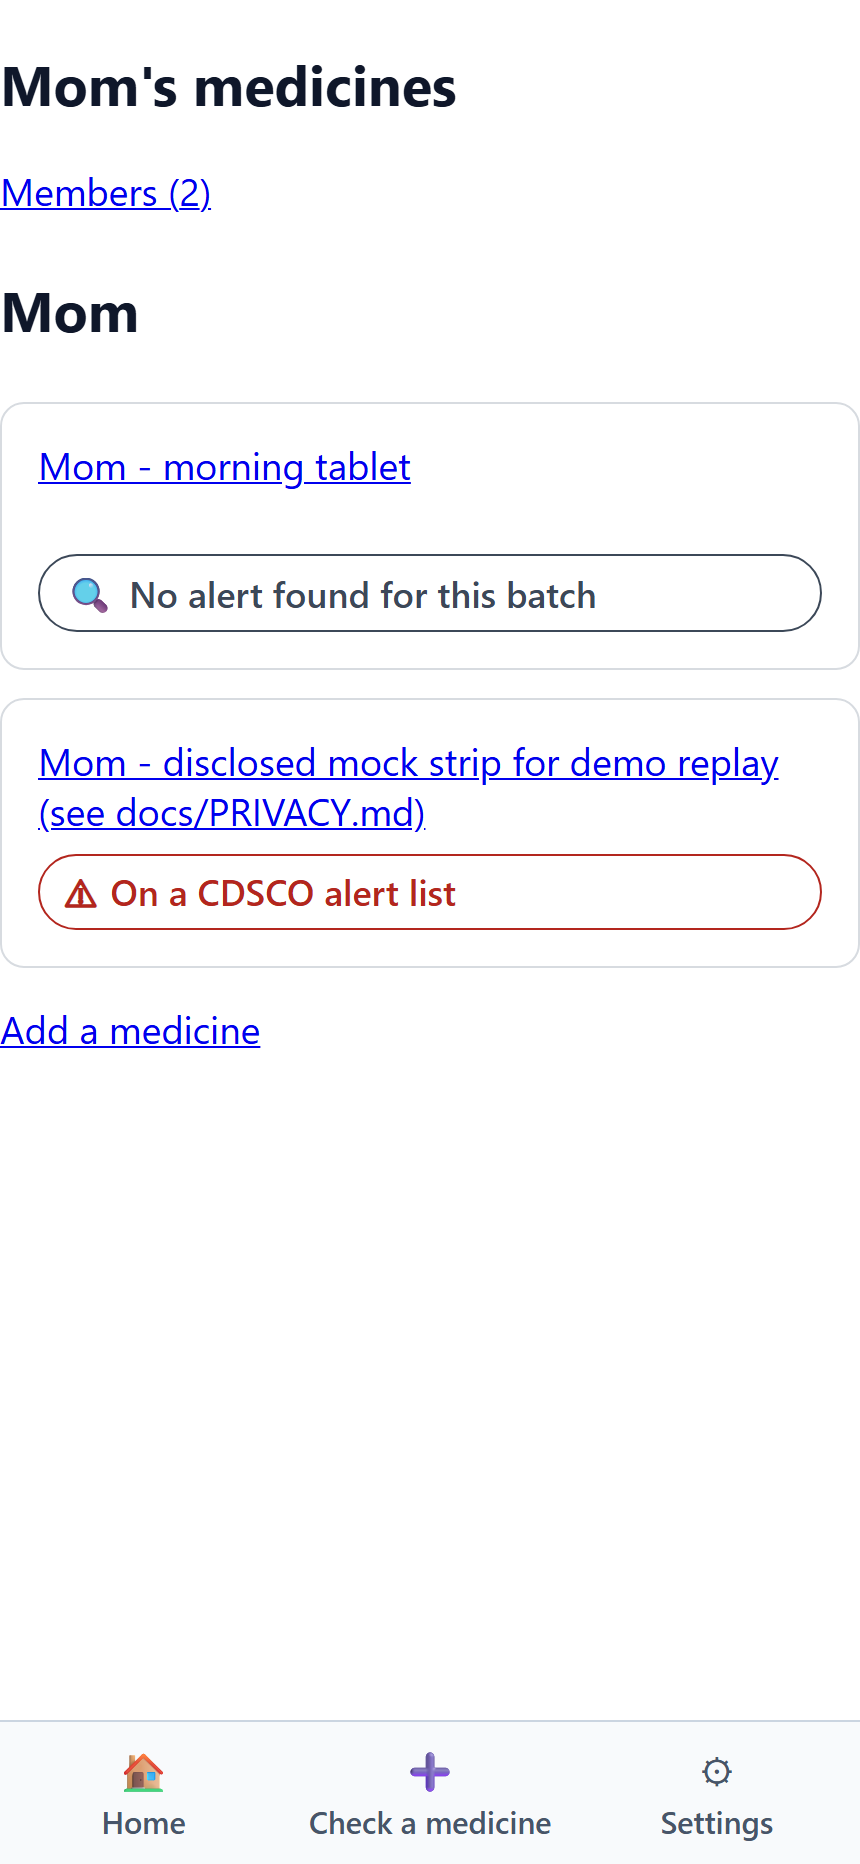
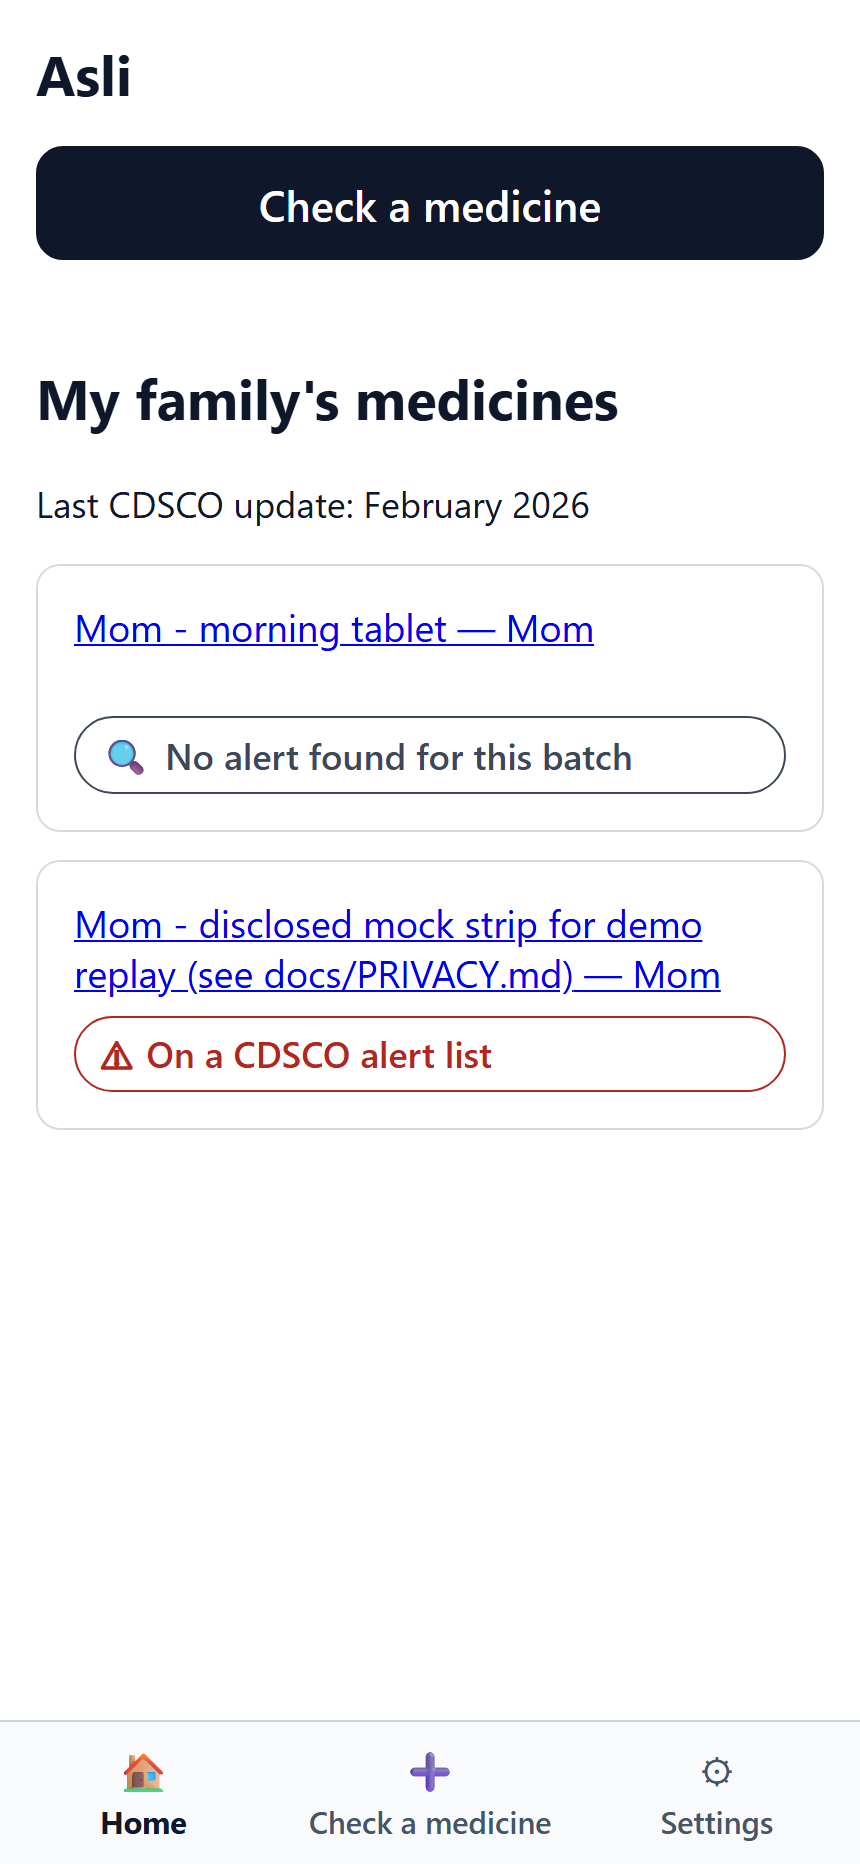
fix(F): swap cabinet authz stub for @asli/authz, fix GSI IAM grant, wire GSI query fix
Points services/cabinet at the shared @asli/authz package (built by lane H)
instead of the local stub, and adds globalIndexes to cabinetsTable's
fromTableAttributes so grantReadWriteData includes GSI ARNs in the generated
IAM policy - listMembershipsForUser's GSI1 query was being denied without it,
causing GET /v1/cabinets to 500 on live infra. Verified fixed against the
deployed LaneFStack-int. Also fixes a lint nit in scan's gemini-client test.

diff --git a/services/cabinet/src/handlers/add-medicine.ts b/services/cabinet/src/handlers/add-medicine.ts
@@ -6,11 +6,11 @@ import {
   type MedicineItem,
   type MedicineWithStatus,
 } from '@asli/contracts';
-import { createAuthz } from '../authz';
+import { createAuthz } from '@asli/authz';
 import { getDdb, cabinetsTableName } from '../db';
 import { forbidden, jsonResponse, notFound, parseJsonBody, userIdFromEvent, withErrors } from '../http';
 import { withIdempotency } from '../idempotency';
-import { createCabinetRepo, medicineGsi3Keys, newMedId, roleOf } from '../repo';
+import { createCabinetRepo, medicineGsi3Keys, newMedId } from '../repo';
 
 const baseHandler = withErrors(async (event: APIGatewayProxyEventV2WithJWTAuthorizer) => {
   const userId = userIdFromEvent(event);
@@ -20,10 +20,7 @@ const baseHandler = withErrors(async (event: APIGatewayProxyEventV2WithJWTAuthor
   const { identity, label, forPerson } = parseJsonBody(event, (raw) => AddMedicineRequestSchema.parse(raw));
 
   const repo = createCabinetRepo({ ddb: getDdb(), tableName: cabinetsTableName() });
-  const authz = createAuthz({
-    mode: 'stub',
-    lookupRole: async (uid, cid) => roleOf(await repo.getMember(cid, uid)),
-  });
+  const authz = createAuthz({ mode: 'stub', ddb: getDdb(), cabinetsTable: cabinetsTableName() });
 
   if (!(await authz.isAllowed(userId, 'AddMedicine', cabinetId))) throw forbidden();
 

diff --git a/services/cabinet/src/handlers/get-cabinet.ts b/services/cabinet/src/handlers/get-cabinet.ts
@@ -1,9 +1,9 @@
 import type { APIGatewayProxyEventV2WithJWTAuthorizer } from 'aws-lambda';
 import type { CabinetDetail, Member } from '@asli/contracts';
-import { createAuthz } from '../authz';
+import { createAuthz } from '@asli/authz';
 import { getDdb, cabinetsTableName } from '../db';
 import { forbidden, jsonResponse, notFound, userIdFromEvent, withErrors } from '../http';
-import { createCabinetRepo, roleOf } from '../repo';
+import { createCabinetRepo } from '../repo';
 
 export const handler = withErrors(async (event: APIGatewayProxyEventV2WithJWTAuthorizer) => {
   const userId = userIdFromEvent(event);
@@ -11,10 +11,7 @@ export const handler = withErrors(async (event: APIGatewayProxyEventV2WithJWTAut
   if (!cabinetId) throw notFound('cabinetId path parameter is required');
 
   const repo = createCabinetRepo({ ddb: getDdb(), tableName: cabinetsTableName() });
-  const authz = createAuthz({
-    mode: 'stub',
-    lookupRole: async (uid, cid) => roleOf(await repo.getMember(cid, uid)),
-  });
+  const authz = createAuthz({ mode: 'stub', ddb: getDdb(), cabinetsTable: cabinetsTableName() });
 
   if (!(await authz.isAllowed(userId, 'ViewCabinet', cabinetId))) throw forbidden();
 

diff --git a/services/cabinet/src/handlers/delete-medicine.ts b/services/cabinet/src/handlers/delete-medicine.ts
@@ -1,8 +1,8 @@
 import type { APIGatewayProxyEventV2WithJWTAuthorizer } from 'aws-lambda';
-import { createAuthz } from '../authz';
+import { createAuthz } from '@asli/authz';
 import { getDdb, cabinetsTableName } from '../db';
 import { forbidden, notFound, userIdFromEvent, withErrors } from '../http';
-import { createCabinetRepo, roleOf } from '../repo';
+import { createCabinetRepo } from '../repo';
 
 export const handler = withErrors(async (event: APIGatewayProxyEventV2WithJWTAuthorizer) => {
   const userId = userIdFromEvent(event);
@@ -11,10 +11,7 @@ export const handler = withErrors(async (event: APIGatewayProxyEventV2WithJWTAut
   if (!cabinetId || !medId) throw notFound('cabinetId and medId path parameters are required');
 
   const repo = createCabinetRepo({ ddb: getDdb(), tableName: cabinetsTableName() });
-  const authz = createAuthz({
-    mode: 'stub',
-    lookupRole: async (uid, cid) => roleOf(await repo.getMember(cid, uid)),
-  });
+  const authz = createAuthz({ mode: 'stub', ddb: getDdb(), cabinetsTable: cabinetsTableName() });
 
   if (!(await authz.isAllowed(userId, 'RemoveMedicine', cabinetId))) throw forbidden();
 

diff --git a/infra/lib/lanes/f-cabinet.ts b/infra/lib/lanes/f-cabinet.ts
@@ -27,9 +27,14 @@ export function register(app: App, stage: string): void {
 
   const cabinetsTableName = importParam(stack, shared, SSM_PATHS.table('cabinets'));
   const cabinetsStreamArn = importParam(stack, shared, SSM_PATHS.tableStream('cabinets'));
+  // globalIndexes required so grantReadWriteData below also covers the GSI ARNs -
+  // listMembershipsForUser (repo.ts) queries GSI1, without it dynamodb:Query on the
+  // index is denied even though the base table grant succeeds (see the same note on
+  // flaggedBatchesTable below).
   const cabinetsTable = dynamodb.Table.fromTableAttributes(stack, 'CabinetsTable', {
     tableName: cabinetsTableName,
     tableStreamArn: cabinetsStreamArn,
+    globalIndexes: ['GSI1', 'GSI2', 'GSI3'],
   });
 
   const flaggedBatchesTableName = importParam(stack, shared, SSM_PATHS.table('flagged-batches'));

diff --git a/services/cabinet/src/repo.ts b/services/cabinet/src/repo.ts
@@ -27,7 +27,6 @@ import {
   type MedicineIdentity,
   type MedicineItem,
   type MemberItem,
-  type Role,
 } from '@asli/contracts';
 import { batchSkeleton, normalizeBatch } from '@asli/matching';
 
@@ -267,8 +266,4 @@ export function medicineGsi3Keys(cabinetId: string, medId: string, identity: Med
 
 export function matchKeyFor(cabinetId: string, medId: string, alertId: string) {
   return { PK: cabinetPk(cabinetId), SK: cabinetMatchSk(medId, alertId) };
-}
-
-export function roleOf(member: MemberItem | undefined): Role | undefined {
-  return member?.role;
 }

diff --git a/services/scan/src/scans/gemini-client.test.ts b/services/scan/src/scans/gemini-client.test.ts
@@ -103,7 +103,7 @@ describe('extractStrip (Gemini)', () => {
     const fetchImpl = fakeFetch([geminiResponse(validStripInput)]);
     await extractStrip({ apiKey: 'k', modelId: 'gemini-3.5-flash-lite', fetchImpl }, new Uint8Array([1]), 'image/jpeg');
 
-    const [, init] = (fetchImpl as ReturnType<typeof vi.fn>).mock.calls[0];
+    const [, init] = (fetchImpl as ReturnType<typeof vi.fn>).mock.calls[0]!;
     expect(init.signal).toBeInstanceOf(AbortSignal);
   });
 });

diff --git a/services/cabinet/src/index.ts b/services/cabinet/src/index.ts
@@ -1,4 +1,4 @@
-export { createAuthz, type Authz } from './authz';
+export { createAuthz, type Authz } from '@asli/authz';
 export { runRetroactiveCheck } from './check';
 export {
   createCabinetRepo,

diff --git a/plan/tasks/F-cabinet-api-retroactive.md b/plan/tasks/F-cabinet-api-retroactive.md
@@ -43,10 +43,11 @@ Invites and member management (H), senders (G1).
 - `pnpm -r lint && pnpm -r build && pnpm -r test` all green repo-wide.
 - `cdk synth LaneFStack-dev-f` verified clean (SSM imports for `dev-shared` resolve as CFN dynamic references, no AWS calls needed at synth time).
 **Remaining:**
-- Real `cdk deploy STAGE=dev-f` (blocked in this session, needs human to run/approve - see Status).
-- After deploy: seed `dev-f` with a matching FlaggedBatches row and smoke-test "adding a medicine matching a seeded row creates a MATCH and publishes one SNS message; re-processing the same stream record publishes nothing" end-to-end on real infra (the equivalent logic is covered by `check.test.ts` against fakes, but the acceptance criterion asks for a real `dev-f` run).
-- Manually verify "PENDING → final tier within 10 s" against the real deployed stream consumer's latency.
+- `LaneFStack-int` is deployed and live (superseded the earlier "blocked" status above from a prior session).
 - Swap `services/cabinet/src/authz.ts`'s local stub for `@asli/authz` once lane H merges the real Verified Permissions-backed package (interface is identical, so this should be a one-line import change plus deleting the local stub).
+
+**Addendum (2026-09-19, follow-up session): real `GET /v1/cabinets` 500 found and fixed - a real CDK/IAM gap, not an app bug.**
+While smoke-testing the live site with a real signed-in browser session, `GET /v1/cabinets` (list-cabinets.ts, called by `HomeMedicineList`) 500'd with a generic `{"code":"INTERNAL"}` body. `GET /v1/cabinets/{id}` (get-cabinet.ts) worked fine against the same real data, so this wasn't an auth/CORS issue (both fixed earlier in this session) - it was specific to `listMembershipsForUser`'s `GSI1` query. Root cause: `infra/lib/lanes/f-cabinet.ts` imports `cabinetsTable` via `dynamodb.Table.fromTableAttributes(...)` but never passed `globalIndexes: [...]` - and CDK's `grantReadWriteData()` only includes a table's GSI ARNs in the resulting IAM policy when the imported `Table` construct actually knows about them. Without it, the generated policy's `Resource` was just the base table ARN, so `dynamodb:Query` against `GSI1` (a different IAM resource ARN, `.../table/<name>/index/GSI1`) was denied - confirmed directly via `aws iam get-role-policy` on `ListCabinetsHandler`'s role (only the base table ARN was listed) and by running the exact same `Query` against `GSI1` with my own credentials (worked fine, proving the data/index were correct and this was purely a permissions gap). The fix pattern already existed 6 lines below in the same file, with a comment explaining it, for `flaggedBatchesTable` - it just hadn't been applied to `cabinetsTable`. Fixed by adding `globalIndexes: ['GSI1', 'GSI2', 'GSI3']` to `cabinetsTable`'s `fromTableAttributes` call; `cdk diff` showed a clean, purely-additive IAM policy change (adds `/index/*` to the `Resource` list) across every Lambda that calls `cabinetsTable.grantReadWriteData()` (`ListCabinetsHandler`, `CreateCabinetHandler`, `GetCabinetHandler`, `AddMedicineHandler`, `DeleteMedicineHandler`, `RetroactiveCheckHandler`). Deployed `LaneFStack-int`; verified fixed for real - the identical live browser session that had just gotten a 500 got a 200 and rendered the real medicines list immediately after. `pnpm --filter infra lint/test` green. Full writeup (with the other 4 bugs found in the same live-testing pass) in `submission/LEARNING_LOG.md`'s 2026-09-19 entry.
 **Gotchas / decisions:**
 - `MatchContext.aliases` (manufacturer alias map from the Reference table) is intentionally not fetched/passed in this lane - it's optional in `@asli/matching`'s `MatchContext`, and `normalizeManufacturer` already handles the common cases on its own. Revisit if manufacturer-alias false negatives show up in testing.
 - `checkedAgainst()` (docs/ALERTS.md `monthCount`/`latestMonth`) is computed by a full `Scan` of IngestionState filtered to `status = DONE`, not a maintained aggregate - that table only grows one row per month per tab, so a scan is cheap and avoids needing S (stats job, not built yet) as a dependency.

diff --git a/README.md b/README.md
@@ -102,12 +102,12 @@ weight in `submission/DEMO_SCRIPT.md`:
 
    ![No alert found result card](docs/screenshots/no-alert-result.png)
 
-3. **Shared cabinet** (1:45–2:35) — "Mom's medicines" with both the clean and flagged medicine
-   saved together, matching the real seeded demo data used for `submission/DEMO_SCRIPT.md`. The
-   full "second phone/caregiver alert arriving" moment is best shown live in the video rather than
-   a static screenshot.
+3. **Home screen: family's medicines** (1:45–2:35) — both the clean and flagged medicine saved to
+   "Mom's medicines", matching the real seeded demo data used for `submission/DEMO_SCRIPT.md`, with
+   the last CDSCO update month shown. The full "second phone/caregiver alert arriving" moment is
+   best shown live in the video rather than a static screenshot.
 
-   ![Shared cabinet](docs/screenshots/shared-cabinet.png)
+   ![Home screen with family's medicines](docs/screenshots/shared-cabinet.png)
 
 ## Repository layout
 ```
